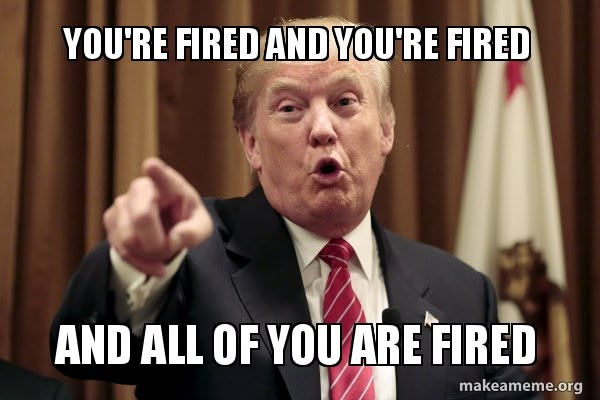
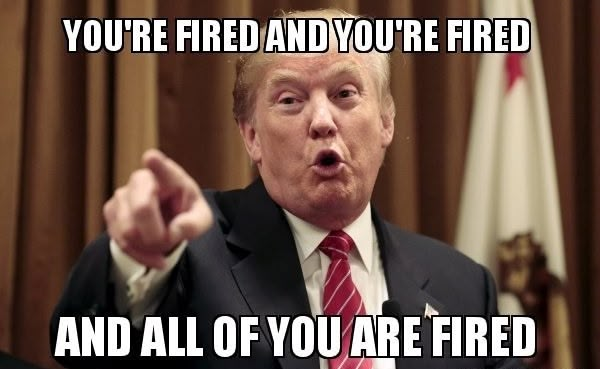
Published Bad Boss post

diff --git a/blog/20260718-Bad_Boss.md b/blog/20260718-Bad_Boss.md
@@ -1,0 +1,179 @@
+---
+title: The Bad Boss Who Ruined Me for All Future Bad Bosses
+date: 2026-07-18
+slug: bad_boss
+tags: narrative, work
+---
+
+![Foreshadowing irony…](../images/best-boss.jpeg)
+
+`2,328 words; 9 minutes`
+
+---
+
+Have you ever watched a full-grown man, someone your father’s age, in fact, throw a temper-tantrum? I mean a real, honest-to-goodness—arms and legs flailing wildly about, head thrashing back and forth with every spittle-flecked word, toddler being told he can’t have another lollipop and clearly someone is over-tired and really needs a nap—temper-tantrum? 
+
+I have. It would have been both sad and hilarious if that man hadn’t been my boss. He was, so it was mostly sad and a little scary.
+
+As I find myself job hunting again, I’m reflecting on past jobs, good and bad. I haven’t had the best of luck, I must admit, though that partially has to do with the number of startups and businesses-in-transition I’ve worked for. 
+
+I’m proud to say that I’ve never been fired from a professional position—I don’t count a retail job I had as a teenager, nor the call center that immediately hired me back after binning the manager who’d fired me—but I was once laid off four times in ten years. Five, if I count a long-running freelance gig that dried up.
+
+One job in particular stands out as the worst of the worst. 
+
+As painful as it was, the worst boss I ever had taught me a valuable lesson: The most powerful tool you can have for protecting yourself at work is the same one you need to negotiate from a position of strength—**Be ready and able to walk away.**
+
+
+> [!Note]
+> I’m changing names and identifying details, and compressing events for clarity. I have no interest in causing new drama, so that's all I have to say about that.
+
+## My Worst Job
+
+The key players in this tragicomedy:
+
+- **Surly**: The Big Boss; a low-key rage-aholic man-child waddling his way toward retirement.
+- **Sleazy**: VP of something or other; a middling sycophant far out of his depth.
+- **Edgy**: My manager, a chain-smoking misanthrope utterly uninterested in managing anyone.
+- **Queasy**: My department lead, ambitious and feeling stuck, suffering in silence.
+- **Tipsy**: A coworker. Like me, he refused to suffer in silence.
+- **Dizzy**: An amalgam of several other coworkers, to keep things streamlined.
+- **Remorseful**: To be fair to the naming convention, I suppose that’s me.
+
+When I started at this job, I was hopeful. That’s how it is—you go in full of innocence and hope. But I really did feel good about it. I got along well with my new coworkers (initially Queasy and Dizzy), Edgy was high-strung but seemed pretty chill about our day-to-day, and Surly seemed to really care about his people. 
+
+![I should have known better. ‘Surly only looks out for one guy… Surly!’](../images/surly.jpg)
+
+During my interview, Surly spent as much time selling me on the company as he did interrogating my credentials. The health insurance was among the best I’ve had, and 401(k) matching was generous. Good deal. 
+
+That glowing feeling didn’t last long, of course. I wasn’t worried yet. The new job shine always wears off sooner or later, and things were still pretty good.
+
+Then, Queasy left.
+
+That was when Dizzy and I learned how much crap Surly had been raining down on him, all of it silently absorbed—a torrent of unreasonable demands followed by verbal abuse when the demands weren't met. Now, all of that fell on us. 
+
+Edgy’s approach to managing had always been “manage yourselves,” so he was no help here. 
+
+Dizzy wasn’t interested in making waves and kept his head down as much as possible. I wasn’t so smart. I tried repeatedly to demonstrate *why* what we were being asked for wouldn’t work. I naively clung to the hope that certainly this time, *finally this time*, they’d get it. You can guess how that went.
+
+Sleazy decided to take charge and appoint himself unofficial creative director, despite having no related background or expertise. I was hopeful until, rather than backing us, he assured Surly that he could get us in line. Even after an outside consultant—clearly brought in to “set us straight”—told Sleazy our only real problem was a lack of capable leadership, he carried on in the role.
+
+Tipsy was hired around this time. He later told me that during his interview, Sleazy said our team was floundering and they hoped he’d be able to fix us. It didn’t take long for Tipsy to realize what was really going on. That exact story repeated itself with every subsequent hire, and still they were convinced the problem was with us.
+
+## The Review Meetings
+
+I’ve always enjoyed peer critiques, and at first our weekly review meetings were exactly that. It was just the team and we’d review each other’s work, offer suggestions, and trade tips. It was mostly positive, and regardless of what anyone else thought, we were working well as a team. Sometimes the project managers or salespeople would join us to check the progress on their projects, but they left the technical and creative critiques to us.
+
+When Edgy bothered to attend, he rarely spoke. He was easy enough to ignore when he did. When Sleazy and Surly attended, however, the tone was different, tense and combative. 
+
+Before long they were attending every week, and I came to dread these meetings. One of these meetings sparked the aforementioned temper-tantrum. Each meeting was an exercise in growing a thick skin and not laughing out loud at the sheer absurdity of it all.
+
+More than once Surly said he’d looked up a YouTube video demonstrating one technique or another, and it only took the video guy a few minutes, so why did it take *us* so long?
+
+![It’s just that simple!](../images/draw_the_owl.png)
+
+One time he—a lifelong salesman—told a room full of experienced creatives (all of us with degrees and a collective four decades or more of experience) that we clearly didn’t know what we were doing, and maybe he should just do it himself. He blamed us for costing him sales and making his job more difficult. He said he couldn’t use any of our recent work in his sales presentations because it was so bad. 
+
+I asked to see what he was presenting. He liked to go on and on about how we were a “high-tech” company and our output needed to look like it. I was curious what he thought high-tech looked like.
+
+The examples were uniformly dated and amateurish. At least a decade behind current standards. I was embarrassed to be associated with work like that, but apparently Surly loved it. I didn’t know how he made any sales showing such garbage work, and in the moment, my face showed it. Dizzy said later it’s a good thing Surly wasn’t looking in my direction.
+
+## Whiplash
+
+At some point in all of this, I was called alone into the conference room with Surly and Sleazy. I was braced for fire, but this was something else. They told me what a great job I was doing. They told me they saw that I was supporting and helping junior team members, and asked for any ideas I had to improve group cohesion. It was… welcome, but confusing.
+
+![Trust to that instinct.](../images/fry-suspicions.png)
+
+I was handed an internal project and told I would have complete control. I was asked to write up plans and advise them on best practices, even if that meant undoing what had already been done. I was somewhat baffled, but pleased. I had plenty of ideas and really did believe in my team. I knew we could nail this and dove into planning.
+
+Then the project proper got underway. My recommendations were first ignored, then derided as unrealistic or misinformed. I pointed out mistakes that had been made before I was involved, and Surly exploded. He screamed and ranted about how much money he’d already spent, the research he’d done, and how dare we not use what he handed us because what did I know anyway?
+
+I’m only [the expert](https://www.youtube.com/watch?v=BKorP55Aqvg) he hired to know about these things, after all.
+
+That project crashed and burned after we’d spent months—maybe even a year, all told—trying to make it match Surly’s original, unworkable vision.
+
+## The Office Incident
+
+I was called into Surly’s office out of the blue. Edgy was already there, silently glaring at me as I took a seat.
+
+Without preamble, Surly laid into me with both barrels. Screaming and hollering about my work. When I tried to defend myself, asking for specific examples, the focus suddenly shifted to “your ***attitude***” (I can still see the spittle fly as he shrieked the word). Surly accused me of insubordination, of encouraging laziness and harming team morale by questioning our treatment and unrealistic demands.
+
+He threatened and belittled me for a good 20 minutes, his face turning beet red with the effort, leaning over his desk and pounding his fist for emphasis. All of this with the door wide open. Surly had a weird thing about closed doors—for himself and for everyone else. 
+
+![…and listening.](../images/always_watching.jpg)
+
+Everyone in that part of the building heard everything.
+
+I don’t believe Edgy said more than two words through it all.
+
+When I got back to my desk—in another part of the building, out of earshot—I was literally vibrating with both rage and shame. Dizzy, concerned by my appearance, asked if I was alright. All I could manage was “I’ve never, *ever,* been spoken to like that” in a shaky voice barely above a whisper.
+
+I spent the rest of the day staring hard at my monitor—pretending to work, but only seeing red.
+
+## The Pink Slip
+
+When the inevitable finally happened, I wasn’t the least bit upset or surprised. And it was a double, almost a triple, event.
+
+Dizzy was called to Surly’s office first and came back shaken. He hadn’t been let go, but he’d been threatened. In an echo of my Office Incident, he’d suffered a stream of abuse and unreasonable demands. Surly had termination papers all drawn up. He showed them to Dizzy, then set them aside.
+
+Every time Dizzy objected to something, Surly would place them back on the table until he went quiet. I believe that was more cruel than anything he’d done to me.
+
+Tipsy went next. His meeting was short and simple, in and out in a few minutes. He’d been laid off without theatrics or fanfare.
+
+Then it was my turn. I braced for the worst, but as with Tipsy, it was quick and simple. Surly was calm, all business. I suppose he’d written me off, so I wasn’t worth getting excited about. 
+
+When he told me he was letting me go, I laughed out loud. He dangled a meager severance to coerce me to sign some forms I didn’t fully agree with (an alarmingly common and underhanded practice, but I needed the money), and I was done.
+
+![The resemblance is uncanny…](../images/youre-fired.jpg)
+
+Edgy didn’t bother to attend any of these.
+
+I collected my things from my desk and grabbed lunch with Tipsy. More than anything, we were both relieved.
+
+The kicker is, I wasn’t fired. I was *laid off* due to “lack of work,” which was nonsense—we were always busy. Despite Surly’s bellowing to the contrary, I was not actually insubordinate, and I did good work. No, Surly got rid of me because I dared to call out his abuse. I didn’t properly kowtow, and neither had Tipsy, so we had to go.
+
+I later heard from Dizzy that they’d hired three new people to replace Tipsy and me. I don’t know if that’s literally true, but I like to think it is.
+
+## Moving Forward
+
+The fallout of all this is that I’m never putting myself through that again.
+
+Since this time, I’ve built up a solid backstop in the form of “walking money.” The next time someone treats me this way, I can simply walk out the door, knowing I’ll be fine for a year or more if I’m careful.
+
+To be clear, I’m not griping about hard work or discomfort. I’ve worked plenty of weekends and evenings since then. But I made the call myself and did so willingly, believing the sacrifice to be worth it and trusting that it would all even out in the end.
+
+I’ve had bosses and coworkers I didn’t like. I’ve had disagreements with bosses I did like, and situations where I felt overlooked or leaned on too hard—times when the work was stressful, and I went home with a throbbing head and no energy or passion for anything. But that happens. Work is sometimes stressful. Life gets complicated. People under stress make mistakes or act like jerks.
+
+Shit happens. We deal with it.
+
+When it crosses the line into abuse, neglect, or outright hostility, that changes everything. No one deserves to work like that. Not you. Not me. Not even Surly, Sleazy, or Edgy.
+
+Ironically, knowing I can walk at any time has led me to stay in questionable situations longer than I might have otherwise. I’m not staying out of fear; I’m staying to see if I can salvage the situation, knowing that if I can’t, I can leave on my own terms.
+
+In most cases, things do get better.
+
+And if they don’t, thanks to Surly, no one gets to treat me like that ever again.
+
+---
+
+> [!Note]
+> I recognize my privilege, that it could have been so much worse. I could have been an Amazon warehouse worker stepping around the [corpse of a colleague](https://www.thewesternedge.media/p/everyone-is-replaceable-death-rattles) (Haas, 2026) or [peeing in a bottle](https://www.cbsnews.com/news/amazon-drivers-peeing-in-bottles-union-vote-worker-complaints/) while driving (Picchi, 2021) because ***the Prime must flow.*** 
+
+![Bezos may be taking his space ambitions a bit too far…](../images/prime-must-flow.jpeg)
+
+---
+
+## TL;DR
+
+- **No one** deserves to be abused at work—verbal and emotional abuse count.
+- Not being mistreated yourself doesn't mean no one else is.
+- Stress, long hours, and clashing personalities are not abuse by themselves.
+- Stripping vulnerable workers of their agency goes beyond abuse. It should be criminal.
+- Your best defense is the ability to walk away—if you can afford to.
+- So, Surly, um… thanks? I guess?
+
+---
+
+## Source
+
+- Haas, R. (2026). *‘Everyone is Replaceable’: Death Rattles Oregon Amazon Facility*. [online] The Western Edge. Available at: https://www.thewesternedge.media/p/everyone-is-replaceable-death-rattles [Accessed 17 July 2026].
+- Picchi, A. (2021). *Amazon apologizes for denying that its drivers pee in bottles*. [online] CBS News. Available at: https://www.cbsnews.com/news/amazon-drivers-peeing-in-bottles-union-vote-worker-complaints/ [Accessed 18 July 2026].